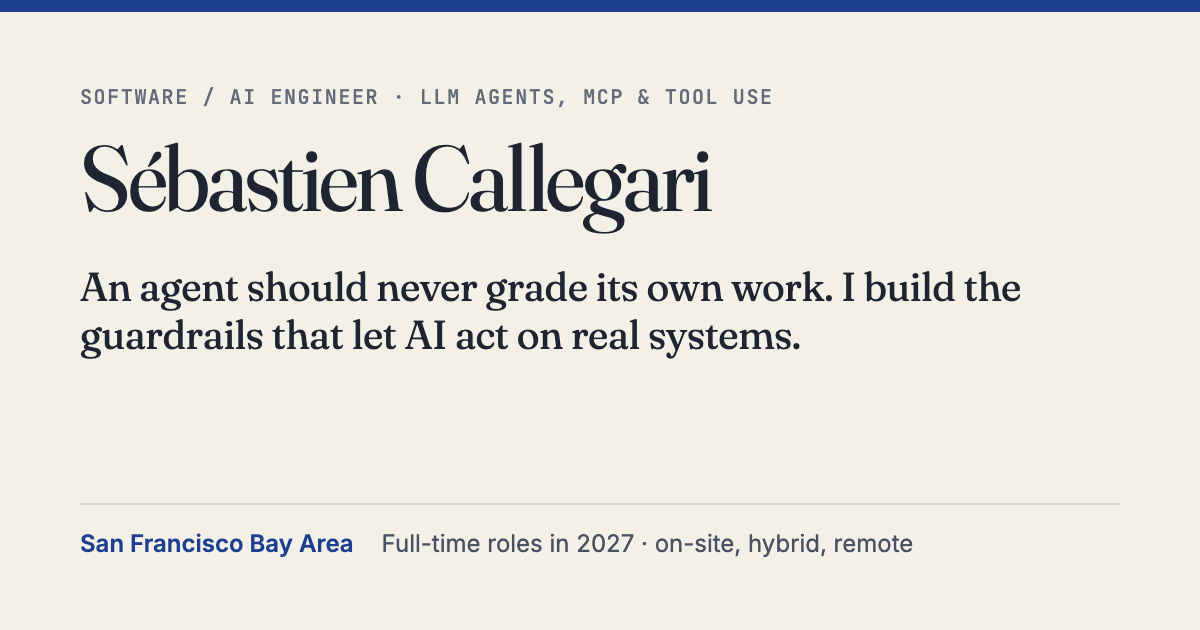
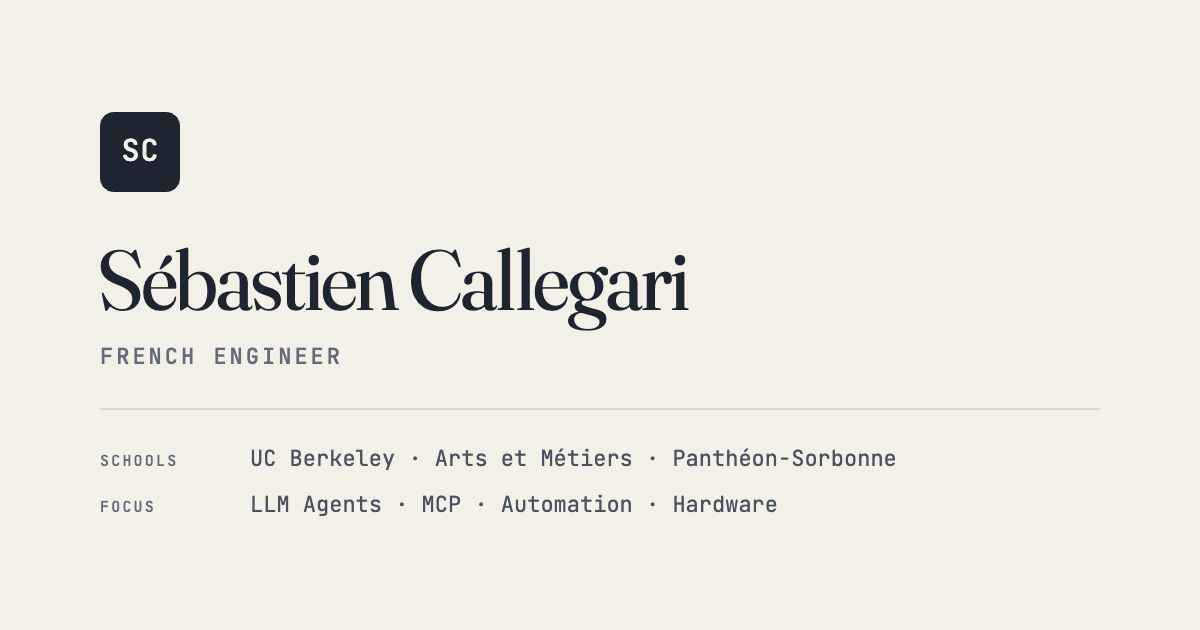
feat(seo): new Open Graph image + matching alt text

diff --git a/src/data/site.ts b/src/data/site.ts
@@ -13,7 +13,10 @@ export interface ProfileLink {
 
 export const person = {
   name: 'Sébastien Callegari',
-  /** Used by the OG image and its alt text. */
+  /** Alt text of public/og.png: describes what the image shows. Update it when the image changes. */
+  ogImageAlt:
+    'Sébastien Callegari, French engineer. Schools: UC Berkeley, Arts et Métiers, Panthéon-Sorbonne. Focus: LLM agents, MCP, automation, hardware.',
+  /** Used by scripts/og-image.mjs. */
   roleLine: 'Software / AI Engineer · LLM agents, MCP & tool use',
   /** Hero kicker (mono label above the name). */
   kicker: 'Software / AI Engineer · San Francisco Bay Area · Open to full-time roles in 2027',
